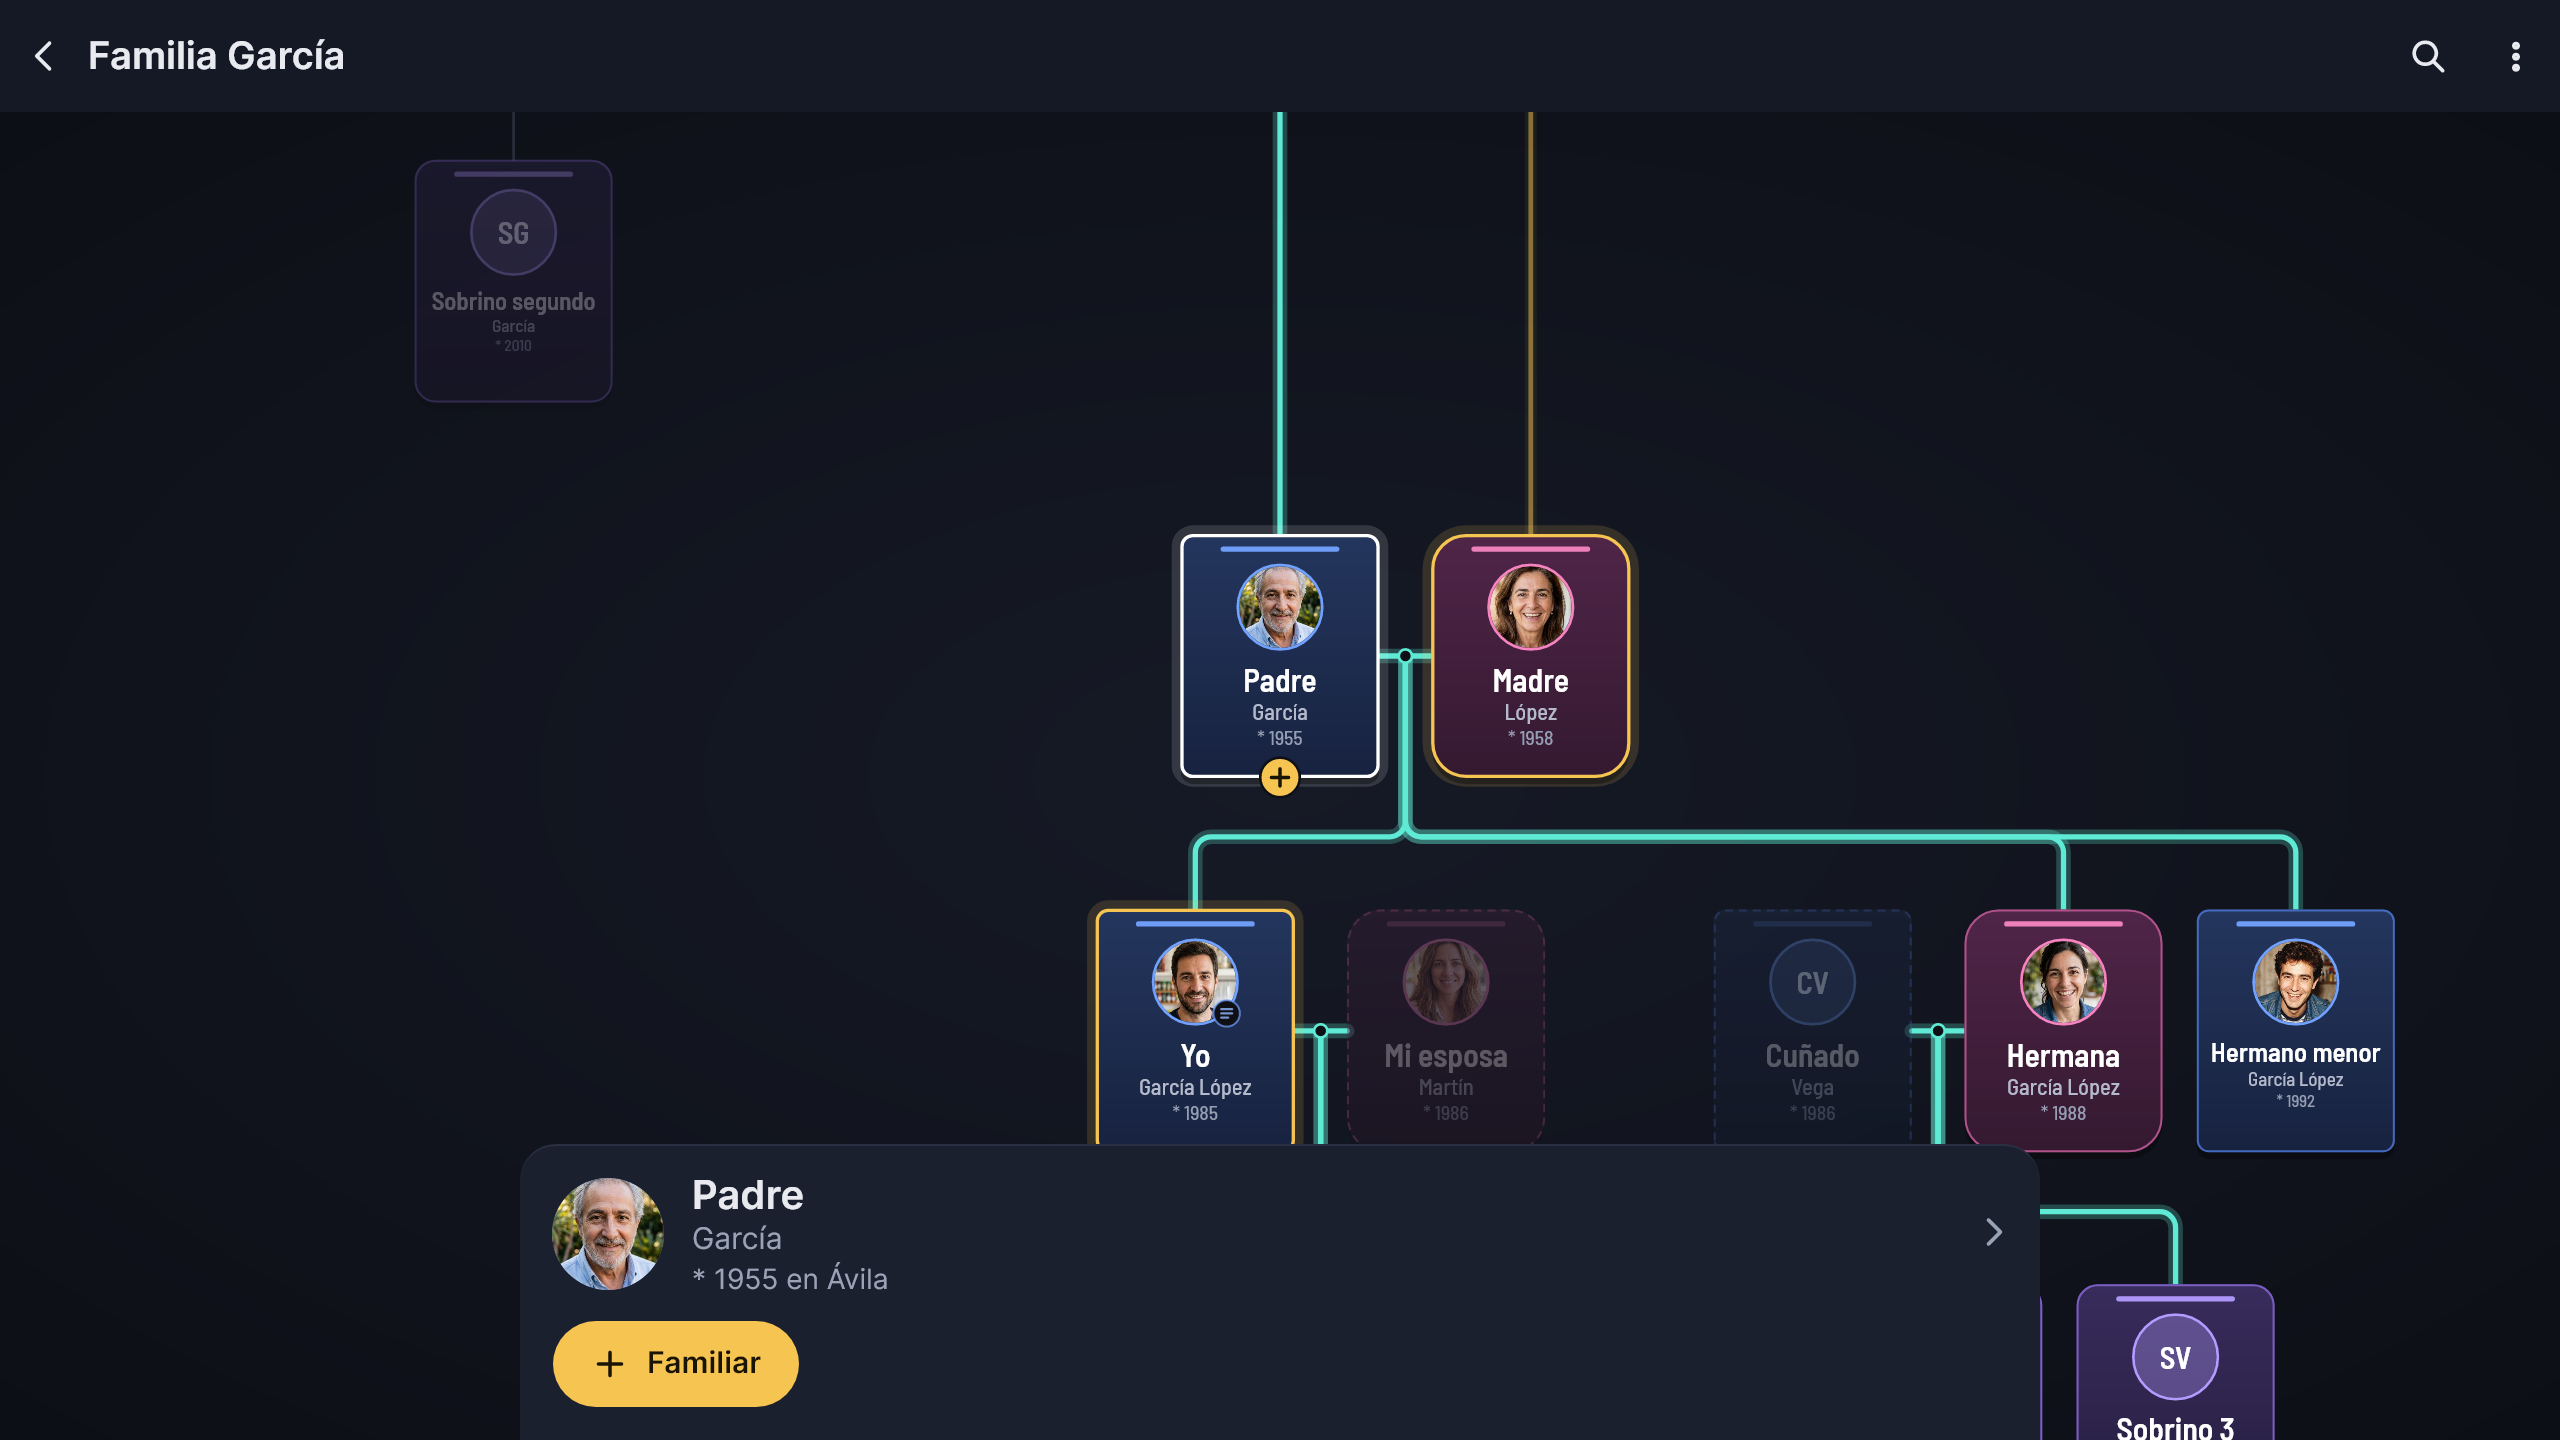
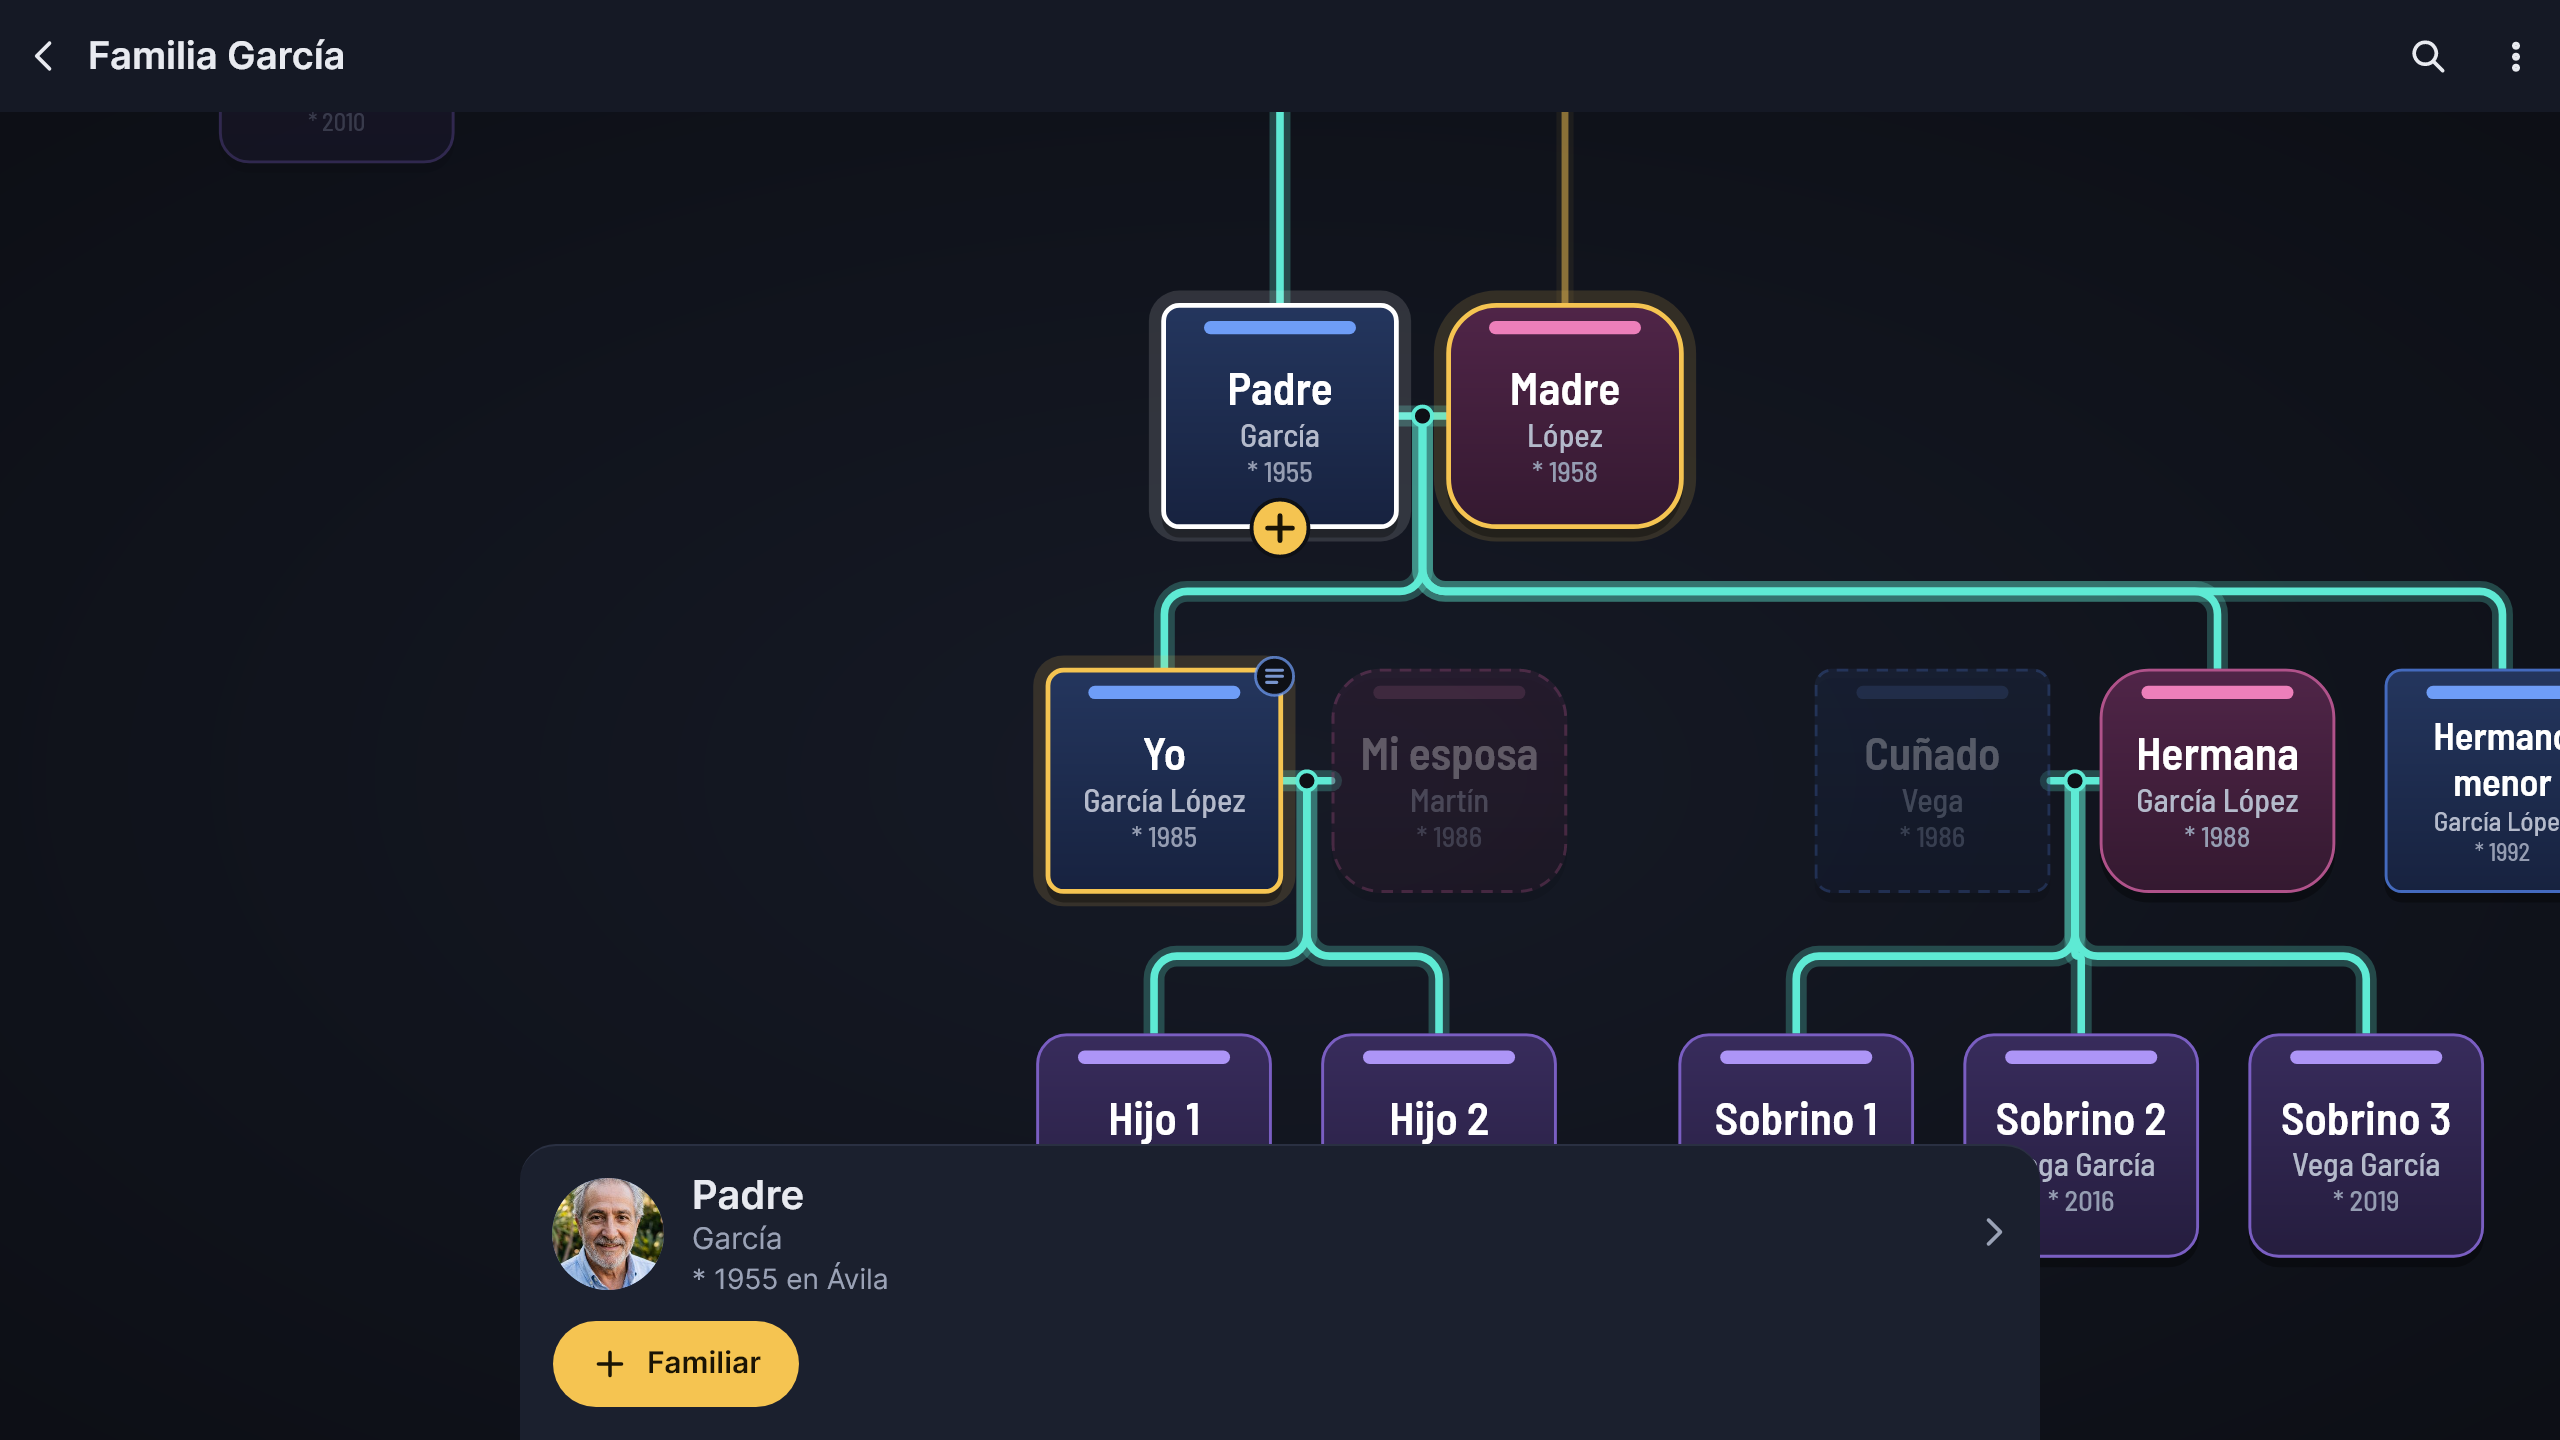
Tarjetas a tu gusto: la vertical, sin foto (como pidió Mario) y más cerca
El subtítulo dice ahora «Con o sin foto, en vertical o solo con el nombre» en los seis idiomas.

Changed region(s): [[0.4062, 0.0938, 1.0, 1.0], [0.1562, 0.0938, 0.25, 0.25], [0.125, 0.0625, 0.1562, 0.0938]]

diff --git a/tienda/promo/enmarcar.py b/tienda/promo/enmarcar.py
@@ -26,7 +26,7 @@ TEXTOS = {
   "e-fusion": ("Juntad", "vuestros árboles", "Cada uno añade lo que sabe y no se borra nada"),
   "f-ficha": ("Fechas, lugares", "e historias", "Guarda la historia de cada persona"),
   "g-buscar": ("Encuentra a cualquiera", "al instante", "Busca por nombre o apellido"),
-  "h-estilos": ("Tarjetas", "a tu gusto", "Con foto, en vertical o solo con el nombre"),
+  "h-estilos": ("Tarjetas", "a tu gusto", "Con o sin foto, en vertical o solo con el nombre"),
  },
  "en": {
   "a-arbol": ("Your whole family,", "at a glance", "Tap someone and their line lights up"),
@@ -36,7 +36,7 @@ TEXTOS = {
   "e-fusion": ("Merge", "your family's trees", "Everyone adds what they know, nothing is lost"),
   "f-ficha": ("Dates, places", "and stories", "Keep every person's story"),
   "g-buscar": ("Find anyone", "instantly", "Search by first or last name"),
-  "h-estilos": ("Cards", "your way", "With photos, upright or just the names"),
+  "h-estilos": ("Cards", "your way", "With or without photos, upright or just names"),
  },
  "fr": {
   "a-arbol": ("Toute votre famille,", "d'un coup d'œil", "Touchez quelqu'un : sa lignée s'illumine"),
@@ -46,7 +46,7 @@ TEXTOS = {
   "e-fusion": ("Fusionnez", "vos arbres", "Chacun ajoute ce qu'il sait, rien n'est effacé"),
   "f-ficha": ("Dates, lieux", "et histoires", "Gardez l'histoire de chacun"),
   "g-buscar": ("Retrouvez n'importe qui", "en un instant", "Recherche par prénom ou par nom"),
-  "h-estilos": ("Des cartes", "à votre goût", "Avec photo, à la verticale ou juste le nom"),
+  "h-estilos": ("Des cartes", "à votre goût", "Avec ou sans photo, à la verticale ou juste le nom"),
  },
  "it": {
   "a-arbol": ("Tutta la famiglia", "a colpo d'occhio", "Tocca una persona e la sua linea si illumina"),
@@ -56,7 +56,7 @@ TEXTOS = {
   "e-fusion": ("Unite", "i vostri alberi", "Ognuno aggiunge ciò che sa, non si perde nulla"),
   "f-ficha": ("Date, luoghi", "e storie", "Conserva la storia di ogni persona"),
   "g-buscar": ("Trova chiunque", "in un attimo", "Cerca per nome o cognome"),
-  "h-estilos": ("Schede", "come preferisci", "Con foto, in verticale o solo con il nome"),
+  "h-estilos": ("Schede", "come preferisci", "Con o senza foto, in verticale o solo con il nome"),
  },
  "de": {
   "a-arbol": ("Deine ganze Familie", "auf einen Blick", "Tippe jemanden an und seine Linie leuchtet auf"),
@@ -66,7 +66,7 @@ TEXTOS = {
   "e-fusion": ("Führt eure Stammbäume", "zusammen", "Jeder ergänzt, was er weiß – nichts geht verloren"),
   "f-ficha": ("Daten, Orte", "und Geschichten", "Bewahre die Geschichte jedes Menschen"),
   "g-buscar": ("Finde jeden", "sofort", "Suche nach Vor- oder Nachname"),
-  "h-estilos": ("Karten", "nach deinem Geschmack", "Mit Foto, hochkant oder nur mit Namen"),
+  "h-estilos": ("Karten", "nach deinem Geschmack", "Mit oder ohne Foto, hochkant oder nur mit Namen"),
  },
  "pt": {
   "a-arbol": ("Sua família toda,", "de relance", "Toque em alguém e a linha dele se acende"),
@@ -76,7 +76,7 @@ TEXTOS = {
   "e-fusion": ("Juntem", "suas árvores", "Cada um adiciona o que sabe e nada se perde"),
   "f-ficha": ("Datas, lugares", "e histórias", "Guarde a história de cada pessoa"),
   "g-buscar": ("Encontre qualquer pessoa", "na hora", "Busque por nome ou sobrenome"),
-  "h-estilos": ("Cartões", "do seu jeito", "Com foto, na vertical ou só com o nome"),
+  "h-estilos": ("Cartões", "do seu jeito", "Com ou sem foto, na vertical ou só com o nome"),
  },
 }
 

diff --git a/tienda/promo/crudas/capturar.py b/tienda/promo/crudas/capturar.py
@@ -55,8 +55,8 @@ def pasos(l, equipo):
         "e-fusion": [abrir, "fusionar:" + variante(l) + "|" + ANA[l], "esperar:800"],
         "f-ficha": [abrir, "ficha:" + n["abuelo"]],
         "g-buscar": [abrir, "buscar:" + n["buscar"]] + (["zoom:1.2", "mover:0,-180"] if t else []),
-        # otras formas de tarjeta: vertical con foto, y solo nombre y apellidos (sin foto ni tarjeta)
-        "h-estilos-vertical": [abrir, "esperar:600", "forma:vertical", "sel:" + n["padre"], *z.split("|")],
+        # otras formas de tarjeta: vertical sin foto, y solo nombre y apellidos (sin foto ni tarjeta)
+        "h-estilos-vertical": [abrir, "esperar:600", "forma:vertical,sin-foto", "sel:" + n["padre"], "escala:" + ("0.95" if t else "0.75")] + (["mover:0,-180"] if t else []),
         "h-estilos-nombre": [abrir, "esperar:600", "forma:sin-foto,sin-tarjeta", "sel:" + n["padre"], "escala:" + ("1" if t else "0.8")] + (["mover:0,-110"] if t else []),
     }
 

diff --git a/tienda/promo/crudas/LEEME.md b/tienda/promo/crudas/LEEME.md
@@ -25,7 +25,7 @@ Cada captura usa una carpeta de datos nueva (`ARBOL_DATOS`), `ARBOL_IDIOMA=<idio
 | `e-fusion.png` | fusionar con «El árbol de Ana» | `abrir:… fusionar:<variante>\|Ana` |
 | `f-ficha.png` | la ficha del abuelo, con su historia | `abrir:… ficha:<Abuelo paterno>` |
 | `g-buscar.png` | buscar por apellido, con resultados | `abrir:… buscar:Garc` (Smi, Mar, Ros, Mül, Sil; tableta: `zoom:1.2 mover:0,-180`) |
-| `h-estilos-vertical.png` | el árbol con tarjetas verticales | `abrir:… esperar:600 forma:vertical` y lo de `a` |
+| `h-estilos-vertical.png` | el árbol con tarjetas verticales sin foto | `abrir:… esperar:600 forma:vertical,sin-foto sel:<Padre> escala:0.75` (tableta: `escala:0.95 mover:0,-180`) |
 | `h-estilos-nombre.png` | solo nombre, apellidos y años, sin foto ni tarjeta | `abrir:… esperar:600 forma:sin-foto,sin-tarjeta sel:<Padre> escala:0.8` (tableta: `escala:1 mover:0,-110`) |
 
 La variante de `e` es el mismo árbol con una nieta y la pareja de «Hijo 1» de más, la fecha entera de nacimiento de
